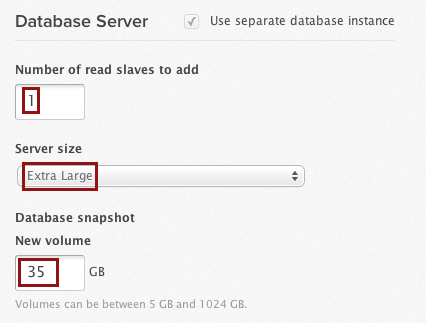
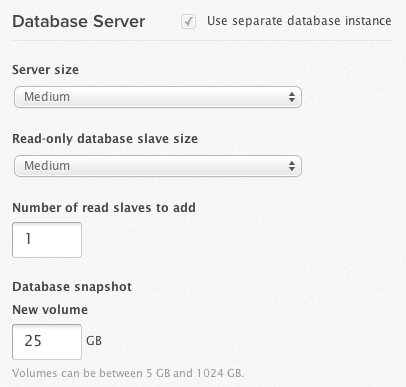
DOC-40 adding in the new features

diff --git a/pages/database-environments.md b/pages/database-environments.md
@@ -14,14 +14,16 @@ Engine Yard offers three environment configurations: Single Server, Basic Cluste
 
 * **Single Server.** For a small testing environment, a single server that contains both the application and the database is ideal. 
 * **Basic Cluster.** The basic cluster does not include a database slave.  
-    In non-production environments or environments where the database data is not critical, a basic cluster is a good choice. With a basic cluster the database is not replicated; make sure that you backup frequently enough.  
+    In non-production environments or environments with small databases, a basic cluster is a good choice. With a basic cluster the database is not replicated; make sure that you backup frequently enough.  
     You can add a database slave to an existing basic cluster (see [below][3]).  
-    **Note** _For PostgreSQL only:_ If you expect your database server requirements to grow so that you will need a larger database instance, consider starting with a Custom environment using 64-bit instances. PostgreSQL instances cannot easily be upgraded from 32-bit to 64-bit instances.
+    **Note** _For PostgreSQL only:_ If you expect your database server requirements to grow so that you will need a larger database instance, consider starting with a Custom environment using 64-bit instances. PostgreSQL instances cannot easily be upgraded from a High CPU Medium to a High CPU Large instance.  
 * **Custom.** For typical applications in production environments, best practice is to use a custom clustered environment, containing the following:  
     * One application master
     * An application slave
     * One master database
     * A database slave
+
+<!-- -->
 
 <h2 id="topic2"> Set up a custom environment with database replication</h2>
 
@@ -33,10 +35,8 @@ This procedure describes how to set up a new environment that includes a databas
 
 1. Create the environment as described in [[Create an environment|environment-create]].
 2. Select Custom.
-3. Set the Number of read slaves to add to 1.
-    The size and volume for the read slave will be the same as the master.
-3. Set the server and volume sizes as needed for your application.  
-    **Note:** Make sure to anticipate growth for your database. You cannot increase the size of the database later without incurring downtime.  
+3. Set the size of the master database instance (Server size) and the slave, and enter the size for the /db volume. 
+    The /db volume for the read slave will be the same as the master.
     ![database instance and slave size](images/db_server_n_slave.png)
 4. Click Boot This Configuration.
 
@@ -52,16 +52,22 @@ If you have a basic cluster and want to add database replication, follow this pr
 2. Click Add Database Slave.
 
 3. Set the instance size and the volume size to be the same or larger than the master database.  
-    **Note: About postgres instances and about environments older than November 2011.**
+    **Note:** You cannot enlarge a PostgreSQL database to a 64-bit instance using a 32-bit snapshot.  
 
 3. Clear the check box to create a new snapshot for the slave or select to use a recent snapshot.     
-    See [New or existing snapshot for the database slave?][3].  
+    See [New or existing snapshot for the database slave?][3]  
     **Note:** The check box does not appear if a recent snapshot is not available.
     
 3. Click Add to Cluster.
 
 4. After the database slave boots, click Apply.  
     This generates new database.yml files for the database slave on the Application Master.
+
+5. If your environment is older than November 28th, 2011, then the /db volume size is not automatically increased and you need to do _one_ of the following:  
+    * Upgrade your environment, or
+    * Via SSH, connect to the database slave instance and increase the size of the /db volume to the volume size entered in step 3 above, or
+    * File a ticket with [[Engine Yard Support|http://support.cloud.engineyard.com]] and ask to have /db volume size reset (to the size entered in step 3 above).
+ 
 
 <!-- QUESTION: Do I still have to click Apply after this? PL-6488 -->
 
@@ -92,6 +98,14 @@ Choosing between creating a new snapshot or using an older snapshot is a trade-o
   <tr>
     <td>High availability in custom clustered environments</td><td>[[High availability for clustered environments|environment-high-availability]].</td>
   </tr> 
+<tr>
+    <td>Upgrade an environment</td><td>[[Upgrading an environment|environment-upgrade ]].</td>
+  </tr>
+  <tr>
+	<td>SSHing into an instance</td><td>[[Connect to your instance via SSH|Connect to your instance via SSH|ssh-connect]].</td>
+  </tr>
+  <tr>
+	<td>32-bit and 64-bit instance sizes</td><td>[[Instance sizes|instance-sizes]]
 </table>
 
 

diff --git a/pages/database-monitoring.md b/pages/database-monitoring.md
@@ -21,7 +21,13 @@ The /db volume size and load capacity of your environment depends on whether you
   </tr> 
 </table>
 
-## Find out database volume usage
+This page describes:  
+
+* [Finding database volume usage][1]
+* [Increasing the size of the database _with_ some downtime][2]
+* [Increasing the size of the database _without_ downtime][3]
+
+<h2 id="topic1">Find database volume usage</h2>
 
 You might want to check on database volume usage _before_ you get an alert.
 
@@ -32,16 +38,11 @@ You might want to check on database volume usage _before_ you get an alert.
         df -h
     ![/db usage](images/database_usage.png)
 
-## Increase the size of the database
+<h2 id="topic2"> Increase the size of the database with some downtime</h2>
 
-When you increase the size of the database via the UI, you are effectively creating a new environment and moving the snapshots of the instances from the old environment to a new environment. This means some downtime for your application. 
+When you increase the size of the database instances via the UI, you are effectively creating a new environment and moving the snapshots of the instances from the old environment to a new environment. This means some downtime for your application. 
 
-However, Engine Yard Support Engineers are able to increase the size of your database without downtime. 
-
-###To increase the size of the database volume or database instance _without_ downtime  
-* Please file a ticket with [[Engine Yard Support|http://support.cloud.engineyard.com]] to schedule an instance upgrade.
-
-###To increase the size of the database volume or database instance _with_ downtime
+###To increase the size of the database volume or database instance via the UI _with_ some downtime
 
 1. Make sure that you know the number and size of the server instances in your current environment.
    
@@ -52,17 +53,28 @@ However, Engine Yard Support Engineers are able to increase the size of your dat
 
 3. Select Custom.
 
-4. Increase the Server size and the /db volume size.
+4. For the Database Server, increase the server size and the /db volume size.
 
     ![/db volume size](images/db_vol_size.png)
 
-    **Note:** You cannot decrease the size of the database volume. 
+    **Note:** You cannot decrease the size of the database volume.
 
 5. Select the most recent snapshots from the dropdown.  
     This ensures that you don't lose data. If there are snapshots are pending, this is indicated in the dropdown.
 
 6. Click Boot This Configuration.
 
+<h2 id="topic3"> Increase the size of the database without downtime</h2>
+
+If you need to increase the size of your master database instance without any downtime, you can do this with assistance from Engine Yard Support. First a larger database slave instance is created and then after replication is complete the slave is promoted to master and the original (smaller) master is decommissioned. 
+
+
+###To increase the size of the database volume or database instance _without_ downtime  
+
+1. Create a database slave as described in [[Add a database slave to an existing environment|database-environments#topic3]].  
+    Select a larger /db volume size or a larger instance size or both.
+
+2. File a ticket with [[Engine Yard Support|http://support.cloud.engineyard.com]] asking to have the database slave promoted to database master.
 
 <h2 id="topic5"> More information</h2>
 
@@ -80,3 +92,9 @@ However, Engine Yard Support Engineers are able to increase the size of your dat
 	 <td>SSHing into an instance</td><td>[[Connect to your instance via SSH|ssh-connect]].</td>
    </tr>
 </table>
+
+[1]: #topic1        "topic1"
+[2]: #topic2        "topic2"
+[3]: #topic3        "topic3"
+[4]: #topic4		"topic4"
+[5]: #topic5        "topic5"

diff --git a/pages/database-intro.md b/pages/database-intro.md
@@ -8,9 +8,6 @@ Whenever Engine Yard Cloud creates an environment, it creates a MySQL or Postgre
 
 ## Topics
 
-1. ### [[Set up replication (database slave instances)|database-environments]]
-
-    Learn how to create slave database instances in a clustered environment so that your database is replicated. 
 
 2. ### [[Finding key information about your database|database-password]]  
 
@@ -32,6 +29,10 @@ Whenever Engine Yard Cloud creates an environment, it creates a MySQL or Postgre
 
     Learn what to do if your database volume fills up or you need a bigger database instance.
 
+1. ### [[Set up replication (database slave instances)|database-environments]]
+
+	 Learn how to create slave database instances in a clustered environment so that your database is replicated. 
+	
 7. ### [[Connecting your database via an SSH tunnel| database-tunnel]]
 
     Learn how to create an SSH tunnel to your database. If you want to use third party tools to manage your database, you need an SSH tunnel from your local machine to the database instance.

diff --git a/pages/TOC.md b/pages/TOC.md
@@ -87,12 +87,12 @@
   * [[Monitoring with Pingdom|monitoring-pingdom]]
 * [[Database|database-intro]]
   * [[Introduction|database-intro]]
-  * [[Set up replication|database-environments]]
   * [[Find key information about databases|database-password]]
   * [[Back up databases|database_backups]]
   * [[Download database backups|database-download]]
   * [[Restore databases|database-restore]]
   * [[Monitor/Increase database size|database-monitoring]]
+  * [[Set up replication|database-environments]]
   * [[Access databases via an SSH tunnel|database-tunnel]]
   * [[Database troubleshooting|database-troubleshooting]]
   * [[Feedback|data-feedback]]
